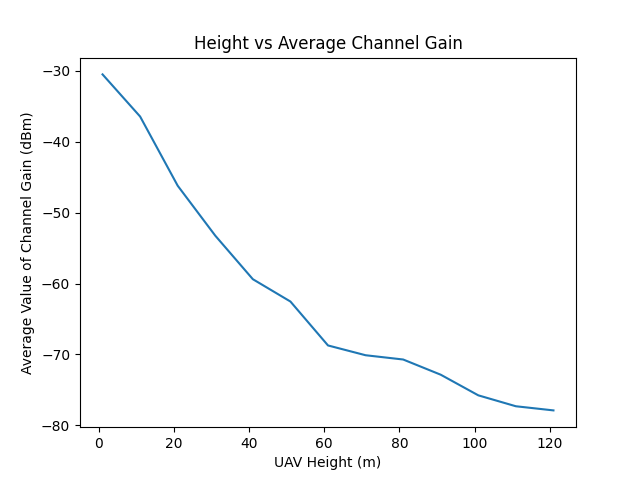
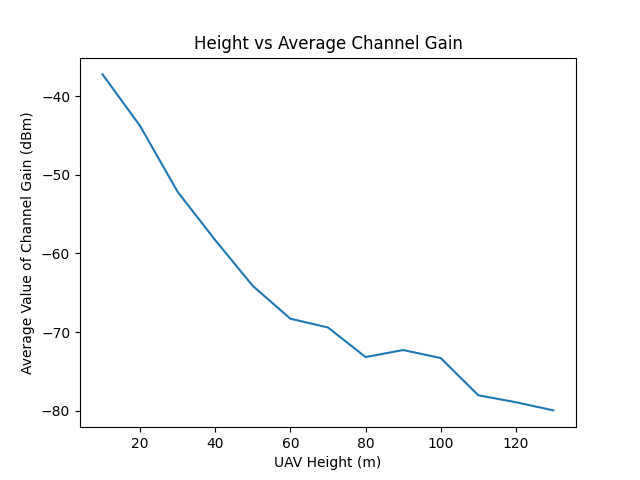
changed data rate threshold and minimum uav height

diff --git a/inputs.py b/inputs.py
@@ -2,7 +2,7 @@ uav = {
     'coordinate': (0, 0),
     'height': 40,                      # in meters
     'service_classes': [1, 3, 5, 20],   # data rate in different service classes
-    'min_height': 1,                   # minimum height of the UAV
+    'min_height': 10,                   # minimum height of the UAV
     'max_height': 130,                  # maximum height of the UAV
     'service_classes': [1, 3, 5, 25],   # data rate in different service classes
     'max_power': 46                     # maximum transmit power of the UAV, in dBm    

diff --git a/plot_user_vs_power.py b/plot_user_vs_power.py
@@ -11,7 +11,7 @@ plt.plot(data['number_of_users'], [46]*len(data['number_of_users']), 'r--', labe
 plt.plot(data['number_of_users'], data['NOMA_total_power'], label='NOMA_avg_power', marker='o')
 plt.plot(data['number_of_users'], data['OMA_total_power'], label='OMA_avg_power', marker='s')
 plt.xlabel('Number of Users')
-plt.ylabel('Average Power (dBm)')
+plt.ylabel('Total Power (dBm)')
 plt.title('Number of Users vs Total Power')
 plt.legend()
 plt.savefig('Fig_Users_vs_TotalPower.png')

diff --git a/compare.py b/compare.py
@@ -136,7 +136,7 @@ if __name__== '__main__':
     pes_noma = list()
     pes_oma = list()
 
-    for i in range(20, 101, 20):
+    for i in range(20, 133, 10):
         (total_power_noma, total_power_oma, pe_noma, pe_oma, _) = simulate(i, 40)
         no_of_users.append(i)
         total_powers_noma.append(total_power_noma)
@@ -255,4 +255,3 @@ if __name__== '__main__':
 
     print(f"Data written to {height_vs_channelGain} successfully!")
         
-
